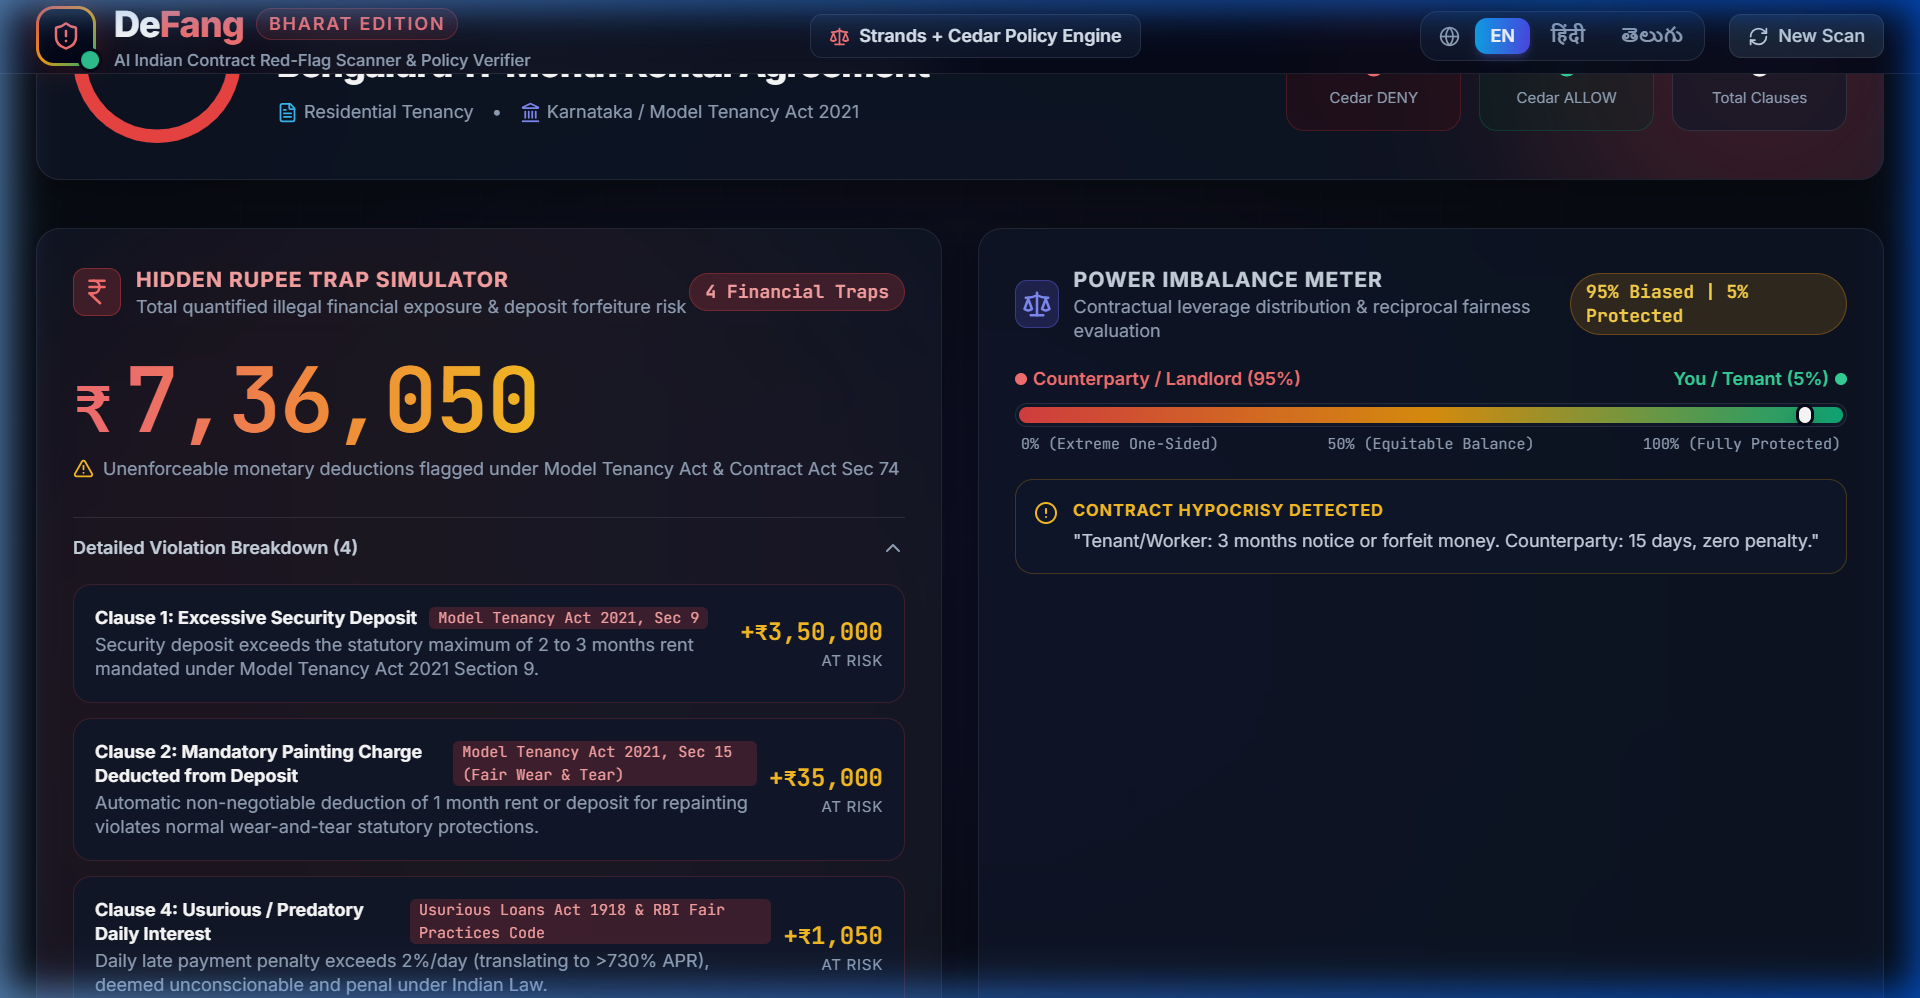
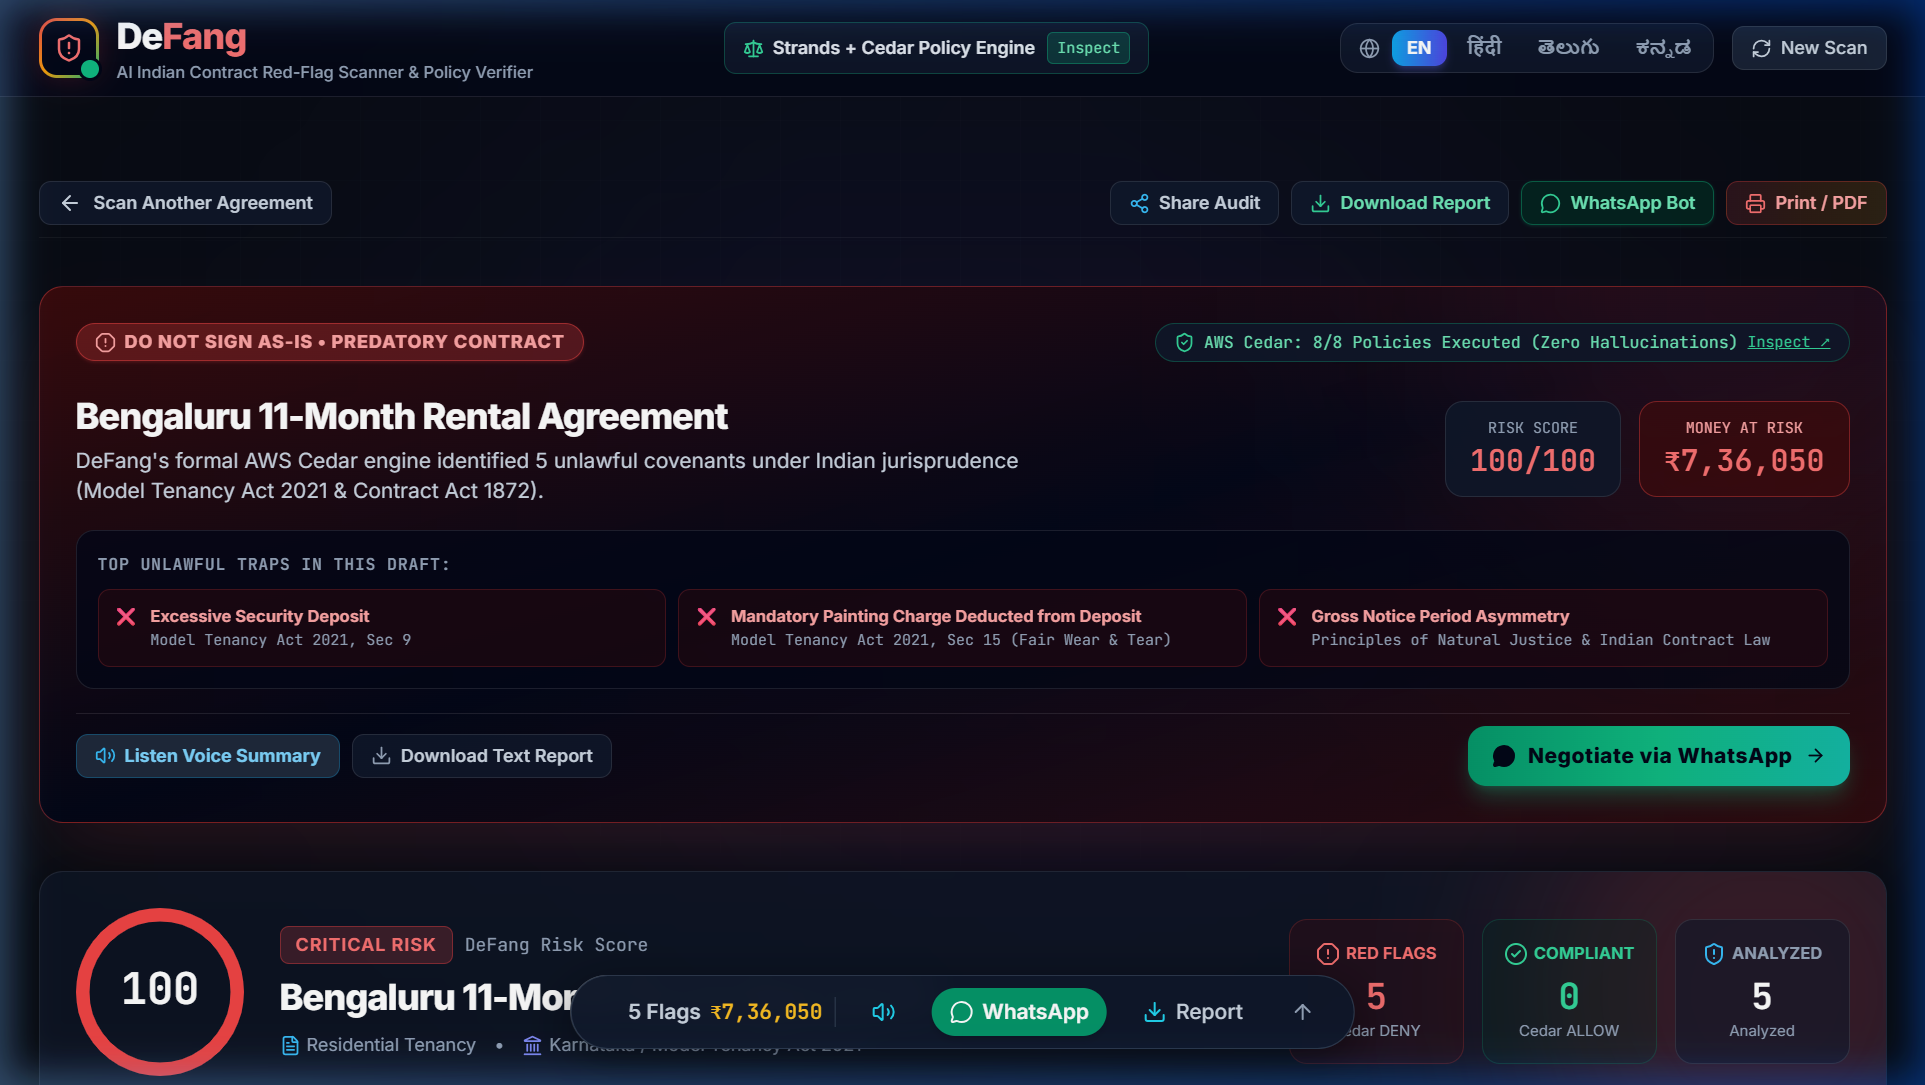
docs: elevate video demo to executive showcase & refresh high-res screenshots

Changed region(s): [[0.0, 0.0, 1.0, 1.0]]

diff --git a/frontend/src/App.tsx b/frontend/src/App.tsx
@@ -289,7 +289,7 @@ export function App() {
       </div>
 
       {/* Main Container */}
-      <main className="flex-1 max-w-7xl w-full mx-auto px-3.5 sm:px-6 pt-4 pb-32 sm:pb-36 relative z-10 space-y-8">
+      <main className="flex-1 max-w-7xl w-full mx-auto px-3.5 sm:px-6 pt-6 pb-32 sm:pb-36 relative z-10 space-y-8">
         {/* LANDING / INPUT VIEW */}
         {!scanResult && !isLoading && (
           <div className="space-y-8">

diff --git a/README.md b/README.md
@@ -19,7 +19,7 @@
 
 <br />
 
-[**Watch 3-Min Demo**](VIDEO_URL) &nbsp;•&nbsp; [**Quick Start (2 Mins)**](#-quick-start) &nbsp;•&nbsp; [**Demo Presets**](#-demo-presets) &nbsp;•&nbsp; [**Architecture**](#-architecture) &nbsp;•&nbsp; [**8 Cedar Policies**](#-legal-frameworks-referenced)
+[**Watch 3-Min Demo**](#-3-minute-video-walkthrough) &nbsp;•&nbsp; [**Quick Start (2 Mins)**](#-quick-start) &nbsp;•&nbsp; [**Demo Presets**](#-demo-presets) &nbsp;•&nbsp; [**Architecture**](#-architecture) &nbsp;•&nbsp; [**8 Cedar Policies**](#-legal-frameworks-referenced)
 
 <br />
 <br />
@@ -55,6 +55,27 @@
 | **Bengaluru 2BHK Rental** | Tenant pays ₹3,50,000 (10-mo deposit). Landlord arbitrarily deducts ₹35,000 for repainting and forfeits the entire deposit upon early job relocation. | **Cedar flags Sec 9 & 15 violations in 4ms**. Identifies ₹7,36,050 trapped liability. Generates a polite WhatsApp counter-offer. **Saves ₹3,85,000+**. |
 | **Startup Fresher Offer Letter** | Engineering fresher signs an offer containing a void 24-month post-exit non-compete and a ₹2,50,000 training bond. | **Cedar executes Section 27 policy** (*restraint of trade void ab initio*). Renders GitHub-style PR diff striking down illegal liquidated damages under Sec 74. |
 | **Freelance Dev Agreement** | Independent contractor agrees to a one-sided contract with 4% daily late penalties (>1,400% APR) and 90-day vs. 15-day notice asymmetry. | **Power Imbalance Meter flags 95% Counterparty Bias**. Cedar flags predatory interest under the Usurious Loans Act 1918. |
+
+---
+
+## 📹 3-Minute Video Walkthrough
+
+<div align="center">
+
+[![Watch 3-Minute Video Walkthrough](https://img.shields.io/badge/YouTube-Watch_Full_3--Minute_Walkthrough-FF0000?style=for-the-badge&logo=youtube&logoColor=white)](VIDEO_URL)
+
+<br />
+
+> 📺 **[▶ Click Here to Watch the Live Product Demonstration on YouTube](VIDEO_URL)**
+*(Recorded for the First Commit | Bharat Builds Tour Hackathon submission)*
+
+</div>
+
+| Timestamp | Video Chapter & Proof Point | What Evaluators Will See |
+| :--- | :--- | :--- |
+| **`0:00 - 1:00`** | **The Crisis & Cedar Deterministic Core** | Why probabilistic LLMs fail Indian legal scrutiny; formal mathematical policy execution in Rust (`cedarpy`) with 0 hallucinations. |
+| **`1:00 - 2:00`** | **Live Indiranagar Lease Audit** | Real-time audit of standard rental agreement; instant calculation of the **₹7,36,050 Hidden Rupee Trap** and 95% Power Imbalance. |
+| **`2:00 - 3:00`** | **Ground-Reality Bharat Workflow** | Mobile camera capture of physical ₹100 stamp papers, regional vernacular voice readouts (`kn`, `te`, `hi`), and 1-click WhatsApp counter-offers. |
 
 ---
 
@@ -266,18 +287,6 @@ During the design and implementation of DeFang (Bharat Edition), our core archit
 3. **Designing for Real-World Bharat Accessibility**:
    - Engineered for physical reality: supporting physical stamp paper camera capture, vernacular voice audio (Kannada/Telugu/Hindi), and WhatsApp communication workflows.
 
----
-
-## 📹 Product Demonstration Video
-
-[![Watch Video Walkthrough](https://img.shields.io/badge/YouTube-Watch_Video_Walkthrough-FF0000?style=for-the-badge&logo=youtube&logoColor=white)](VIDEO_URL)
-
-> 📺 **[Click here to watch the product demonstration on YouTube](VIDEO_URL)**
-
-A comprehensive walkthrough demonstrating DeFang's end-to-end statutory verification workflow:
-* **Dual-Engine Core in Action**: Decoupling Strands Agentic clause structuring from AWS Cedar deterministic policy compilation in native Rust.
-* **Live Statutory Audit**: Real-time evaluation of an Indiranagar 11-month agreement, detecting Section 9 & 15 violations in milliseconds.
-* **Ground-Reality Bharat Workflow**: Physical stamp paper camera capture, regional voice synthesis (Kannada, Telugu, Hindi), and 1-click WhatsApp counter-amendments.
 ---
 
 ## 🏛 Project Specifications & Architecture
